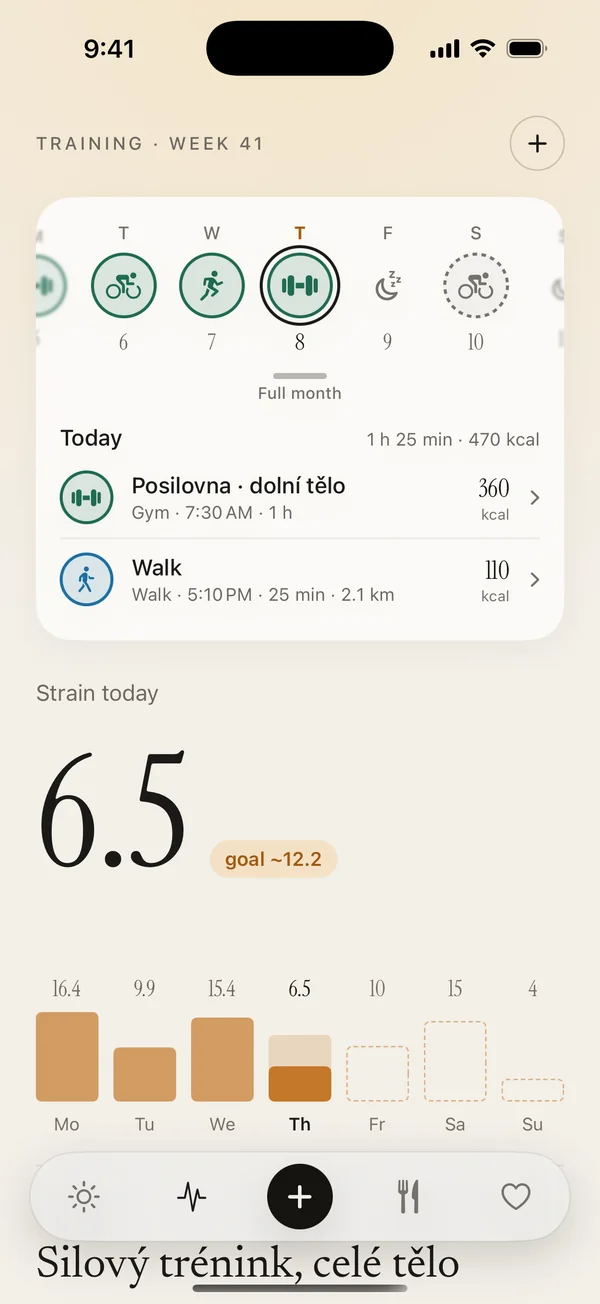
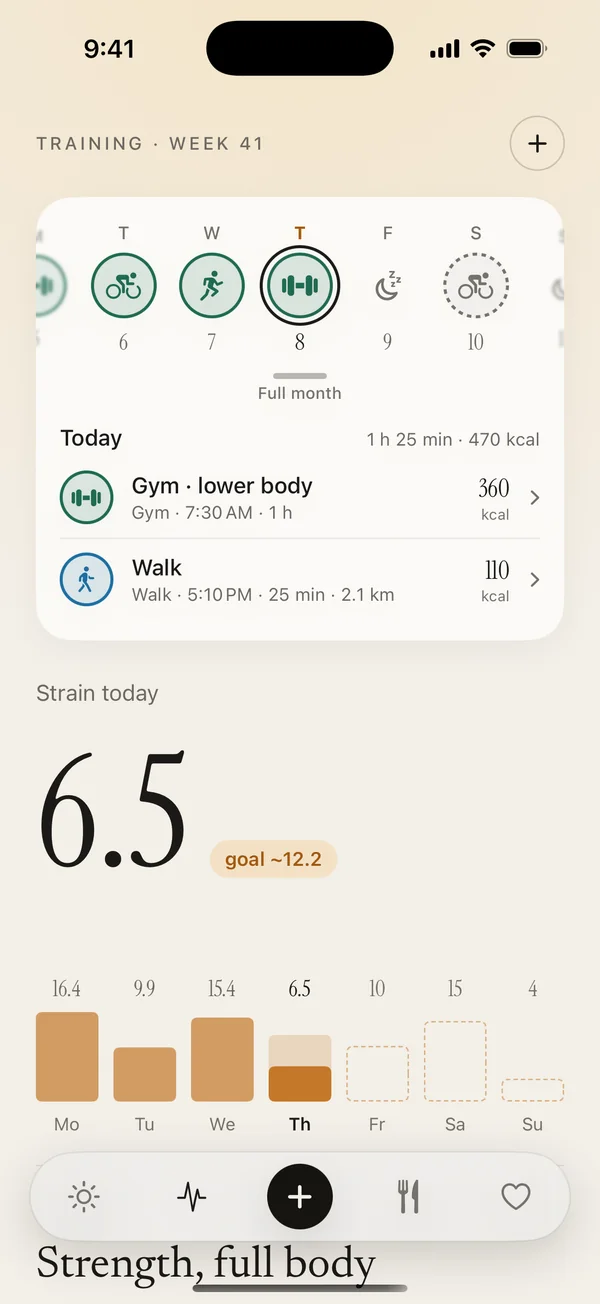
Site: the English screenshots; CI opens detail screens without the system dialog
The phones now show the English sample day from the app build. Readiness,
strain, muscles and the gym session were shot behind the system's
"Open in Aurin?" question that simctl openurl brings, so the app takes
-open <route> at launch instead. The sample Training tab now matches
Today: strain 8.4 and the strength session still ahead at 17:30.

Claude-Session: https://claude.ai/code/session_01FR1qPjRNRxWeNLwhyB6Ncx

Changed region(s): [[0.09, 0.9509, 0.63, 1.0], [0.21, 0.3681, 0.57, 0.3988], [0.66, 0.9509, 0.78, 0.9816]]

diff --git a/ios-native/Loadwise/Data/DemoData.swift b/ios-native/Loadwise/Data/DemoData.swift
@@ -72,7 +72,7 @@ enum DemoData {
     private static let trainingEnglish: TrainingSnapshot = decode(inEnglish(trainingJSON))
 
     private static let trainingJSON = #"""
-{"status": "ok", "date": "2026-10-08", "week": 41, "strain": {"score": 6.5, "target": 12.2, "band": "střední"}, "days": [{"date": "2026-10-05", "strain": 16.4, "planned": 11.6, "today": false}, {"date": "2026-10-06", "strain": 9.9, "planned": 8.7, "today": false}, {"date": "2026-10-07", "strain": 15.4, "planned": 13.1, "today": false}, {"date": "2026-10-08", "strain": 6.5, "planned": 12.2, "today": true}, {"date": "2026-10-09", "strain": null, "planned": 10.2, "today": false}, {"date": "2026-10-10", "strain": null, "planned": 14.8, "today": false}, {"date": "2026-10-11", "strain": null, "planned": 4.2, "today": false}], "next": {"date": "2026-10-08", "time": "17:30", "minutes": 45, "title": "Silový trénink, celé tělo", "sport": "strength", "tss": 45, "strain": 8.3, "exercises": ["Dřep", "Tlak na lavici", "Přítahy", "Rumunský mrtvý tah", "Výpady", "Plank"], "description": null, "advice": "Proč dnes: vysoká připravenost, nohy od pondělí v klidu, v sobotu delší běh."}, "event": {"name": "Pražský půlmaraton", "date": "2026-11-01", "daysLeft": 24, "phase": "build", "phases": [{"key": "base", "label": "Základ", "from": null, "to": "2026-08-08", "state": "done"}, {"key": "build", "label": "Rozvoj", "from": "2026-08-09", "to": "2026-10-24", "state": "now", "week": 9, "weeks": 11}, {"key": "taper", "label": "Ladění", "from": "2026-10-25", "to": "2026-10-31", "state": "next"}]}, "form": {"fitness": 62, "fatigue": 76, "form": -14, "zone": "optimal", "label": "budování", "text": "Únava je nad kondicí, přesně jak má při budování být. Kondice roste.", "series": [{"date": "2026-07-17", "fitness": 53.7, "fatigue": 64.1}, {"date": "2026-07-18", "fitness": 53.8, "fatigue": 62.9}, {"date": "2026-07-19", "fitness": 53.9, "fatigue": 61.5}, {"date": "2026-07-20", "fitness": 54, "fatigue": 59.9}, {"date": "2026-07-21", "fitness": 54.1, "fatigue": 58.3}, {"date": "2026-07-22", "fitness": 54.2, "fatigue": 56.9}, {"date": "2026-07-23", "fitness": 54.3, "fatigue": 55.7}, {"date": "2026-07-24", "fitness": 54.4, "fatigue": 54.9}, {"date": "2026-07-25", "fitness": 54.5, "fatigue": 54.5}, {"date": "2026-07-26", "fitness": 54.6, "fatigue": 54.6}, {"date": "2026-07-27", "fitness": 54.7, "fatigue": 55.2}, {"date": "2026-07-28", "fitness": 54.8, "fatigue": 56.3}, {"date": "2026-07-29", "fitness": 54.9, "fatigue": 57.7}, {"date": "2026-07-30", "fitness": 55, "fatigue": 59.3}, {"date": "2026-07-31", "fitness": 55.1, "fatigue": 61.1}, {"date": "2026-08-01", "fitness": 55.2, "fatigue": 62.9}, {"date": "2026-08-02", "fitness": 55.3, "fatigue": 64.6}, {"date": "2026-08-03", "fitness": 55.4, "fatigue": 65.9}, {"date": "2026-08-04", "fitness": 55.5, "fatigue": 67}, {"date": "2026-08-05", "fitness": 55.6, "fatigue": 67.5}, {"date": "2026-08-06", "fitness": 55.7, "fatigue": 67.6}, {"date": "2026-08-07", "fitness": 55.8, "fatigue": 67.2}, {"date": "2026-08-08", "fitness": 55.9, "fatigue": 66.3}, {"date": "2026-08-09", "fitness": 56, "fatigue": 65.1}, {"date": "2026-08-10", "fitness": 56.1, "fatigue": 63.7}, {"date": "2026-08-11", "fitness": 56.2, "fatigue": 62.1}, {"date": "2026-08-12", "fitness": 56.3, "fatigue": 60.5}, {"date": "2026-08-13", "fitness": 56.4, "fatigue": 59.1}, {"date": "2026-08-14", "fitness": 56.5, "fatigue": 57.9}, {"date": "2026-08-15", "fitness": 56.6, "fatigue": 57.1}, {"date": "2026-08-16", "fitness": 56.7, "fatigue": 56.7}, {"date": "2026-08-17", "fitness": 56.8, "fatigue": 56.8}, {"date": "2026-08-18", "fitness": 56.9, "fatigue": 57.5}, {"date": "2026-08-19", "fitness": 57, "fatigue": 58.5}, {"date": "2026-08-20", "fitness": 57.1, "fatigue": 59.9}, {"date": "2026-08-21", "fitness": 57.2, "fatigue": 61.6}, {"date": "2026-08-22", "fitness": 57.3, "fatigue": 63.4}, {"date": "2026-08-23", "fitness": 57.4, "fatigue": 65.2}, {"date": "2026-08-24", "fitness": 57.5, "fatigue": 66.8}, {"date": "2026-08-25", "fitness": 57.6, "fatigue": 68.2}, {"date": "2026-08-26", "fitness": 57.7, "fatigue": 69.2}, {"date": "2026-08-27", "fitness": 57.8, "fatigue": 69.7}, {"date": "2026-08-28", "fitness": 57.9, "fatigue": 69.8}, {"date": "2026-08-29", "fitness": 58, "fatigue": 69.4}, {"date": "2026-08-30", "fitness": 58.1, "fatigue": 68.5}, {"date": "2026-08-31", "fitness": 58.2, "fatigue": 67.3}, {"date": "2026-09-01", "fitness": 58.3, "fatigue": 65.9}, {"date": "2026-09-02", "fitness": 58.4, "fatigue": 64.3}, {"date": "2026-09-03", "fitness": 58.5, "fatigue": 62.7}, {"date": "2026-09-04", "fitness": 58.6, "fatigue": 61.3}, {"date": "2026-09-05", "fitness": 58.7, "fatigue": 60.1}, {"date": "2026-09-06", "fitness": 58.8, "fatigue": 59.3}, {"date": "2026-09-07", "fitness": 58.9, "fatigue": 58.9}, {"date": "2026-09-08", "fitness": 59, "fatigue": 59.1}, {"date": "2026-09-09", "fitness": 59.1, "fatigue": 59.7}, {"date": "2026-09-10", "fitness": 59.2, "fatigue": 60.7}, {"date": "2026-09-11", "fitness": 59.3, "fatigue": 62.1}, {"date": "2026-09-12", "fitness": 59.4, "fatigue": 63.8}, {"date": "2026-09-13", "fitness": 59.5, "fatigue": 65.6}, {"date": "2026-09-14", "fitness": 59.6, "fatigue": 67.4}, {"date": "2026-09-15", "fitness": 59.7, "fatigue": 69}, {"date": "2026-09-16", "fitness": 59.8, "fatigue": 70.4}, {"date": "2026-09-17", "fitness": 59.9, "fatigue": 71.4}, {"date": "2026-09-18", "fitness": 60, "fatigue": 71.9}, {"date": "2026-09-19", "fitness": 60.1, "fatigue": 72}, {"date": "2026-09-20", "fitness": 60.2, "fatigue": 71.6}, {"date": "2026-09-21", "fitness": 60.3, "fatigue": 70.8}, {"date": "2026-09-22", "fitness": 60.4, "fatigue": 69.5}, {"date": "2026-09-23", "fitness": 60.5, "fatigue": 68.1}, {"date": "2026-09-24", "fitness": 60.6, "fatigue": 66.5}, {"date": "2026-09-25", "fitness": 60.7, "fatigue": 64.9}, {"date": "2026-09-26", "fitness": 60.8, "fatigue": 63.5}, {"date": "2026-09-27", "fitness": 60.9, "fatigue": 62.3}, {"date": "2026-09-28", "fitness": 61, "fatigue": 61.5}, {"date": "2026-09-29", "fitness": 61.1, "fatigue": 61.1}, {"date": "2026-09-30", "fitness": 61.2, "fatigue": 64.3}, {"date": "2026-10-01", "fitness": 61.3, "fatigue": 64.9}, {"date": "2026-10-02", "fitness": 61.4, "fatigue": 65.9}, {"date": "2026-10-03", "fitness": 61.5, "fatigue": 67.4}, {"date": "2026-10-04", "fitness": 61.6, "fatigue": 69}, {"date": "2026-10-05", "fitness": 61.7, "fatigue": 70.8}, {"date": "2026-10-06", "fitness": 61.8, "fatigue": 72.6}, {"date": "2026-10-07", "fitness": 61.9, "fatigue": 74.2}, {"date": "2026-10-08", "fitness": 62, "fatigue": 75.6}]}, "load": {"weeks": [{"start": "2026-08-17", "week": 34, "load": 467, "planned": null}, {"start": "2026-08-24", "week": 35, "load": 473, "planned": null}, {"start": "2026-08-31", "week": 36, "load": 479, "planned": null}, {"start": "2026-09-07", "week": 37, "load": 486, "planned": null}, {"start": "2026-09-14", "week": 38, "load": 492, "planned": null}, {"start": "2026-09-21", "week": 39, "load": 498, "planned": null}, {"start": "2026-09-28", "week": 40, "load": 505, "planned": null}, {"start": "2026-10-05", "week": 41, "load": 280, "planned": 443}], "intensity": {"low": 66, "high": 27, "anaerobic": 7, "weeks": [{"low": 100, "high": 40, "anaerobic": 5}, {"low": 120, "high": 30, "anaerobic": 10}, {"low": 90, "high": 50, "anaerobic": 8}, {"low": 60, "high": 20, "anaerobic": 5}]}}, "zones": {"light": 816, "moderate": 350, "vigorous": 125, "peak": 7, "minutes": 1298, "weeks": [{"start": "2026-09-14", "week": 38, "light": 228, "moderate": 96, "vigorous": 38, "peak": 2}, {"start": "2026-09-21", "week": 39, "light": 214, "moderate": 104, "vigorous": 30, "peak": 3}, {"start": "2026-09-28", "week": 40, "light": 205, "moderate": 88, "vigorous": 41, "peak": 1}, {"start": "2026-10-05", "week": 41, "light": 132, "moderate": 62, "vigorous": 16, "peak": 1}]}, "vo2max": {"value": 49.2, "change": 0.6, "series": [{"date": "2026-04-11", "value": 45.8}, {"date": "2026-04-18", "value": 46.1}, {"date": "2026-04-25", "value": 46.4}, {"date": "2026-05-02", "value": 46.2}, {"date": "2026-05-09", "value": 46.5}, {"date": "2026-05-16", "value": 46.8}, {"date": "2026-05-23", "value": 46.5}, {"date": "2026-05-30", "value": 46.8}, {"date": "2026-06-06", "value": 47.2}, {"date": "2026-06-13", "value": 46.9}, {"date": "2026-06-20", "value": 47.2}, {"date": "2026-06-27", "value": 47.5}, {"date": "2026-07-04", "value": 47.2}, {"date": "2026-07-11", "value": 47.6}, {"date": "2026-07-18", "value": 47.9}, {"date": "2026-07-25", "value": 47.6}, {"date": "2026-08-01", "value": 47.9}, {"date": "2026-08-08", "value": 48.2}, {"date": "2026-08-15", "value": 48}, {"date": "2026-08-22", "value": 48.3}, {"date": "2026-08-29", "value": 48.6}, {"date": "2026-09-05", "value": 48.3}, {"date": "2026-09-08", "value": 48.6}, {"date": "2026-09-13", "value": 48.7}, {"date": "2026-09-18", "value": 48.8}, {"date": "2026-09-23", "value": 48.9}, {"date": "2026-09-28", "value": 49}, {"date": "2026-10-03", "value": 49.1}, {"date": "2026-10-08", "value": 49.2}]}, "activeCalories": {"today": 520, "usual": 432, "week": [{"date": "2026-10-02", "value": 310}, {"date": "2026-10-04", "value": 480}, {"date": "2026-10-05", "value": 390}, {"date": "2026-10-06", "value": 700}, {"date": "2026-10-07", "value": 280}, {"date": "2026-10-08", "value": 520}], "days": [{"date": "2026-09-11", "value": 420}, {"date": "2026-09-12", "value": 610}, {"date": "2026-09-13", "value": 350}, {"date": "2026-09-14", "value": 290}, {"date": "2026-09-15", "value": 540}, {"date": "2026-09-16", "value": 380}, {"date": "2026-09-17", "value": 450}, {"date": "2026-09-18", "value": 330}, {"date": "2026-09-19", "value": 720}, {"date": "2026-09-20", "value": 260}, {"date": "2026-09-21", "value": 410}, {"date": "2026-09-22", "value": 500}, {"date": "2026-09-23", "value": 390}, {"date": "2026-09-24", "value": 640}, {"date": "2026-09-25", "value": 300}, {"date": "2026-09-26", "value": 470}, {"date": "2026-09-27", "value": 360}, {"date": "2026-09-28", "value": 520}, {"date": "2026-09-29", "value": 680}, {"date": "2026-09-30", "value": 290}, {"date": "2026-10-01", "value": 410}, {"date": "2026-10-02", "value": 310}, {"date": "2026-10-04", "value": 480}, {"date": "2026-10-05", "value": 390}, {"date": "2026-10-06", "value": 700}, {"date": "2026-10-07", "value": 280}, {"date": "2026-10-08", "value": 520}]}, "sessions": [{"id": "done:2026-10-05:", "kind": "activity", "status": "done", "date": "2026-10-05", "time": null, "title": "Run", "sport": "run", "minutes": 54, "tss": 72, "activityId": null, "eventId": null}, {"id": "done:2026-10-06:", "kind": "activity", "status": "done", "date": "2026-10-06", "time": null, "title": "Ride", "sport": "ride", "minutes": 60, "tss": 48, "activityId": null, "eventId": null}, {"id": "activity:i9001", "kind": "activity", "status": "done", "date": "2026-10-07", "time": "18:00", "title": "Intervaly 4×8", "sport": "ride", "minutes": 72, "tss": 88, "activityId": "i9001", "eventId": null, "adherence": "off", "adherenceReason": "vyšší intenzita než plán"}, {"id": "planned:2026-10-08:Silový trénink, celé tělo", "kind": "planned", "status": "planned", "date": "2026-10-08", "time": "17:30", "title": "Silový trénink, celé tělo", "sport": "strength", "minutes": 45, "tss": 45, "activityId": null, "eventId": null}, {"id": "planned:42", "kind": "planned", "status": "planned", "date": "2026-10-09", "time": null, "title": "Lehká jízda Z2", "sport": "ride", "minutes": 72, "tss": 60, "activityId": null, "eventId": "planned:42"}, {"id": "planned:43", "kind": "planned", "status": "planned", "date": "2026-10-10", "time": null, "title": "Dlouhý běh", "sport": "run", "minutes": 96, "tss": 110, "activityId": null, "eventId": "planned:43"}, {"id": "planned:2026-10-11:Regenerace", "kind": "planned", "status": "planned", "date": "2026-10-11", "time": null, "title": "Regenerace", "sport": "ride", "minutes": 30, "tss": 20, "activityId": null, "eventId": null}], "thisWeek": {"done": 3, "planned": 7, "doneLoad": 208, "plannedLoad": 443}}
+{"status": "ok", "date": "2026-10-08", "week": 41, "strain": {"score": 8.4, "target": 12.2, "band": "střední"}, "days": [{"date": "2026-10-05", "strain": 16.4, "planned": 11.6, "today": false}, {"date": "2026-10-06", "strain": 9.9, "planned": 8.7, "today": false}, {"date": "2026-10-07", "strain": 15.4, "planned": 13.1, "today": false}, {"date": "2026-10-08", "strain": 8.4, "planned": 12.2, "today": true}, {"date": "2026-10-09", "strain": null, "planned": 10.2, "today": false}, {"date": "2026-10-10", "strain": null, "planned": 14.8, "today": false}, {"date": "2026-10-11", "strain": null, "planned": 4.2, "today": false}], "next": {"date": "2026-10-08", "time": "17:30", "minutes": 45, "title": "Silový trénink, celé tělo", "sport": "strength", "tss": 45, "strain": 8.3, "exercises": ["Dřep", "Tlak na lavici", "Přítahy", "Rumunský mrtvý tah", "Výpady", "Plank"], "description": null, "advice": "Proč dnes: vysoká připravenost, nohy od pondělí v klidu, v sobotu delší běh."}, "event": {"name": "Pražský půlmaraton", "date": "2026-11-01", "daysLeft": 24, "phase": "build", "phases": [{"key": "base", "label": "Základ", "from": null, "to": "2026-08-08", "state": "done"}, {"key": "build", "label": "Rozvoj", "from": "2026-08-09", "to": "2026-10-24", "state": "now", "week": 9, "weeks": 11}, {"key": "taper", "label": "Ladění", "from": "2026-10-25", "to": "2026-10-31", "state": "next"}]}, "form": {"fitness": 62, "fatigue": 76, "form": -14, "zone": "optimal", "label": "budování", "text": "Únava je nad kondicí, přesně jak má při budování být. Kondice roste.", "series": [{"date": "2026-07-17", "fitness": 53.7, "fatigue": 64.1}, {"date": "2026-07-18", "fitness": 53.8, "fatigue": 62.9}, {"date": "2026-07-19", "fitness": 53.9, "fatigue": 61.5}, {"date": "2026-07-20", "fitness": 54, "fatigue": 59.9}, {"date": "2026-07-21", "fitness": 54.1, "fatigue": 58.3}, {"date": "2026-07-22", "fitness": 54.2, "fatigue": 56.9}, {"date": "2026-07-23", "fitness": 54.3, "fatigue": 55.7}, {"date": "2026-07-24", "fitness": 54.4, "fatigue": 54.9}, {"date": "2026-07-25", "fitness": 54.5, "fatigue": 54.5}, {"date": "2026-07-26", "fitness": 54.6, "fatigue": 54.6}, {"date": "2026-07-27", "fitness": 54.7, "fatigue": 55.2}, {"date": "2026-07-28", "fitness": 54.8, "fatigue": 56.3}, {"date": "2026-07-29", "fitness": 54.9, "fatigue": 57.7}, {"date": "2026-07-30", "fitness": 55, "fatigue": 59.3}, {"date": "2026-07-31", "fitness": 55.1, "fatigue": 61.1}, {"date": "2026-08-01", "fitness": 55.2, "fatigue": 62.9}, {"date": "2026-08-02", "fitness": 55.3, "fatigue": 64.6}, {"date": "2026-08-03", "fitness": 55.4, "fatigue": 65.9}, {"date": "2026-08-04", "fitness": 55.5, "fatigue": 67}, {"date": "2026-08-05", "fitness": 55.6, "fatigue": 67.5}, {"date": "2026-08-06", "fitness": 55.7, "fatigue": 67.6}, {"date": "2026-08-07", "fitness": 55.8, "fatigue": 67.2}, {"date": "2026-08-08", "fitness": 55.9, "fatigue": 66.3}, {"date": "2026-08-09", "fitness": 56, "fatigue": 65.1}, {"date": "2026-08-10", "fitness": 56.1, "fatigue": 63.7}, {"date": "2026-08-11", "fitness": 56.2, "fatigue": 62.1}, {"date": "2026-08-12", "fitness": 56.3, "fatigue": 60.5}, {"date": "2026-08-13", "fitness": 56.4, "fatigue": 59.1}, {"date": "2026-08-14", "fitness": 56.5, "fatigue": 57.9}, {"date": "2026-08-15", "fitness": 56.6, "fatigue": 57.1}, {"date": "2026-08-16", "fitness": 56.7, "fatigue": 56.7}, {"date": "2026-08-17", "fitness": 56.8, "fatigue": 56.8}, {"date": "2026-08-18", "fitness": 56.9, "fatigue": 57.5}, {"date": "2026-08-19", "fitness": 57, "fatigue": 58.5}, {"date": "2026-08-20", "fitness": 57.1, "fatigue": 59.9}, {"date": "2026-08-21", "fitness": 57.2, "fatigue": 61.6}, {"date": "2026-08-22", "fitness": 57.3, "fatigue": 63.4}, {"date": "2026-08-23", "fitness": 57.4, "fatigue": 65.2}, {"date": "2026-08-24", "fitness": 57.5, "fatigue": 66.8}, {"date": "2026-08-25", "fitness": 57.6, "fatigue": 68.2}, {"date": "2026-08-26", "fitness": 57.7, "fatigue": 69.2}, {"date": "2026-08-27", "fitness": 57.8, "fatigue": 69.7}, {"date": "2026-08-28", "fitness": 57.9, "fatigue": 69.8}, {"date": "2026-08-29", "fitness": 58, "fatigue": 69.4}, {"date": "2026-08-30", "fitness": 58.1, "fatigue": 68.5}, {"date": "2026-08-31", "fitness": 58.2, "fatigue": 67.3}, {"date": "2026-09-01", "fitness": 58.3, "fatigue": 65.9}, {"date": "2026-09-02", "fitness": 58.4, "fatigue": 64.3}, {"date": "2026-09-03", "fitness": 58.5, "fatigue": 62.7}, {"date": "2026-09-04", "fitness": 58.6, "fatigue": 61.3}, {"date": "2026-09-05", "fitness": 58.7, "fatigue": 60.1}, {"date": "2026-09-06", "fitness": 58.8, "fatigue": 59.3}, {"date": "2026-09-07", "fitness": 58.9, "fatigue": 58.9}, {"date": "2026-09-08", "fitness": 59, "fatigue": 59.1}, {"date": "2026-09-09", "fitness": 59.1, "fatigue": 59.7}, {"date": "2026-09-10", "fitness": 59.2, "fatigue": 60.7}, {"date": "2026-09-11", "fitness": 59.3, "fatigue": 62.1}, {"date": "2026-09-12", "fitness": 59.4, "fatigue": 63.8}, {"date": "2026-09-13", "fitness": 59.5, "fatigue": 65.6}, {"date": "2026-09-14", "fitness": 59.6, "fatigue": 67.4}, {"date": "2026-09-15", "fitness": 59.7, "fatigue": 69}, {"date": "2026-09-16", "fitness": 59.8, "fatigue": 70.4}, {"date": "2026-09-17", "fitness": 59.9, "fatigue": 71.4}, {"date": "2026-09-18", "fitness": 60, "fatigue": 71.9}, {"date": "2026-09-19", "fitness": 60.1, "fatigue": 72}, {"date": "2026-09-20", "fitness": 60.2, "fatigue": 71.6}, {"date": "2026-09-21", "fitness": 60.3, "fatigue": 70.8}, {"date": "2026-09-22", "fitness": 60.4, "fatigue": 69.5}, {"date": "2026-09-23", "fitness": 60.5, "fatigue": 68.1}, {"date": "2026-09-24", "fitness": 60.6, "fatigue": 66.5}, {"date": "2026-09-25", "fitness": 60.7, "fatigue": 64.9}, {"date": "2026-09-26", "fitness": 60.8, "fatigue": 63.5}, {"date": "2026-09-27", "fitness": 60.9, "fatigue": 62.3}, {"date": "2026-09-28", "fitness": 61, "fatigue": 61.5}, {"date": "2026-09-29", "fitness": 61.1, "fatigue": 61.1}, {"date": "2026-09-30", "fitness": 61.2, "fatigue": 64.3}, {"date": "2026-10-01", "fitness": 61.3, "fatigue": 64.9}, {"date": "2026-10-02", "fitness": 61.4, "fatigue": 65.9}, {"date": "2026-10-03", "fitness": 61.5, "fatigue": 67.4}, {"date": "2026-10-04", "fitness": 61.6, "fatigue": 69}, {"date": "2026-10-05", "fitness": 61.7, "fatigue": 70.8}, {"date": "2026-10-06", "fitness": 61.8, "fatigue": 72.6}, {"date": "2026-10-07", "fitness": 61.9, "fatigue": 74.2}, {"date": "2026-10-08", "fitness": 62, "fatigue": 75.6}]}, "load": {"weeks": [{"start": "2026-08-17", "week": 34, "load": 467, "planned": null}, {"start": "2026-08-24", "week": 35, "load": 473, "planned": null}, {"start": "2026-08-31", "week": 36, "load": 479, "planned": null}, {"start": "2026-09-07", "week": 37, "load": 486, "planned": null}, {"start": "2026-09-14", "week": 38, "load": 492, "planned": null}, {"start": "2026-09-21", "week": 39, "load": 498, "planned": null}, {"start": "2026-09-28", "week": 40, "load": 505, "planned": null}, {"start": "2026-10-05", "week": 41, "load": 280, "planned": 443}], "intensity": {"low": 66, "high": 27, "anaerobic": 7, "weeks": [{"low": 100, "high": 40, "anaerobic": 5}, {"low": 120, "high": 30, "anaerobic": 10}, {"low": 90, "high": 50, "anaerobic": 8}, {"low": 60, "high": 20, "anaerobic": 5}]}}, "zones": {"light": 816, "moderate": 350, "vigorous": 125, "peak": 7, "minutes": 1298, "weeks": [{"start": "2026-09-14", "week": 38, "light": 228, "moderate": 96, "vigorous": 38, "peak": 2}, {"start": "2026-09-21", "week": 39, "light": 214, "moderate": 104, "vigorous": 30, "peak": 3}, {"start": "2026-09-28", "week": 40, "light": 205, "moderate": 88, "vigorous": 41, "peak": 1}, {"start": "2026-10-05", "week": 41, "light": 132, "moderate": 62, "vigorous": 16, "peak": 1}]}, "vo2max": {"value": 49.2, "change": 0.6, "series": [{"date": "2026-04-11", "value": 45.8}, {"date": "2026-04-18", "value": 46.1}, {"date": "2026-04-25", "value": 46.4}, {"date": "2026-05-02", "value": 46.2}, {"date": "2026-05-09", "value": 46.5}, {"date": "2026-05-16", "value": 46.8}, {"date": "2026-05-23", "value": 46.5}, {"date": "2026-05-30", "value": 46.8}, {"date": "2026-06-06", "value": 47.2}, {"date": "2026-06-13", "value": 46.9}, {"date": "2026-06-20", "value": 47.2}, {"date": "2026-06-27", "value": 47.5}, {"date": "2026-07-04", "value": 47.2}, {"date": "2026-07-11", "value": 47.6}, {"date": "2026-07-18", "value": 47.9}, {"date": "2026-07-25", "value": 47.6}, {"date": "2026-08-01", "value": 47.9}, {"date": "2026-08-08", "value": 48.2}, {"date": "2026-08-15", "value": 48}, {"date": "2026-08-22", "value": 48.3}, {"date": "2026-08-29", "value": 48.6}, {"date": "2026-09-05", "value": 48.3}, {"date": "2026-09-08", "value": 48.6}, {"date": "2026-09-13", "value": 48.7}, {"date": "2026-09-18", "value": 48.8}, {"date": "2026-09-23", "value": 48.9}, {"date": "2026-09-28", "value": 49}, {"date": "2026-10-03", "value": 49.1}, {"date": "2026-10-08", "value": 49.2}]}, "activeCalories": {"today": 520, "usual": 432, "week": [{"date": "2026-10-02", "value": 310}, {"date": "2026-10-04", "value": 480}, {"date": "2026-10-05", "value": 390}, {"date": "2026-10-06", "value": 700}, {"date": "2026-10-07", "value": 280}, {"date": "2026-10-08", "value": 520}], "days": [{"date": "2026-09-11", "value": 420}, {"date": "2026-09-12", "value": 610}, {"date": "2026-09-13", "value": 350}, {"date": "2026-09-14", "value": 290}, {"date": "2026-09-15", "value": 540}, {"date": "2026-09-16", "value": 380}, {"date": "2026-09-17", "value": 450}, {"date": "2026-09-18", "value": 330}, {"date": "2026-09-19", "value": 720}, {"date": "2026-09-20", "value": 260}, {"date": "2026-09-21", "value": 410}, {"date": "2026-09-22", "value": 500}, {"date": "2026-09-23", "value": 390}, {"date": "2026-09-24", "value": 640}, {"date": "2026-09-25", "value": 300}, {"date": "2026-09-26", "value": 470}, {"date": "2026-09-27", "value": 360}, {"date": "2026-09-28", "value": 520}, {"date": "2026-09-29", "value": 680}, {"date": "2026-09-30", "value": 290}, {"date": "2026-10-01", "value": 410}, {"date": "2026-10-02", "value": 310}, {"date": "2026-10-04", "value": 480}, {"date": "2026-10-05", "value": 390}, {"date": "2026-10-06", "value": 700}, {"date": "2026-10-07", "value": 280}, {"date": "2026-10-08", "value": 520}]}, "sessions": [{"id": "done:2026-10-05:", "kind": "activity", "status": "done", "date": "2026-10-05", "time": null, "title": "Run", "sport": "run", "minutes": 54, "tss": 72, "activityId": null, "eventId": null}, {"id": "done:2026-10-06:", "kind": "activity", "status": "done", "date": "2026-10-06", "time": null, "title": "Ride", "sport": "ride", "minutes": 60, "tss": 48, "activityId": null, "eventId": null}, {"id": "activity:i9001", "kind": "activity", "status": "done", "date": "2026-10-07", "time": "18:00", "title": "Intervaly 4×8", "sport": "ride", "minutes": 72, "tss": 88, "activityId": "i9001", "eventId": null, "adherence": "off", "adherenceReason": "vyšší intenzita než plán"}, {"id": "planned:2026-10-08:Silový trénink, celé tělo", "kind": "planned", "status": "planned", "date": "2026-10-08", "time": "17:30", "title": "Silový trénink, celé tělo", "sport": "strength", "minutes": 45, "tss": 45, "activityId": null, "eventId": null}, {"id": "planned:42", "kind": "planned", "status": "planned", "date": "2026-10-09", "time": null, "title": "Lehká jízda Z2", "sport": "ride", "minutes": 72, "tss": 60, "activityId": null, "eventId": "planned:42"}, {"id": "planned:43", "kind": "planned", "status": "planned", "date": "2026-10-10", "time": null, "title": "Dlouhý běh", "sport": "run", "minutes": 96, "tss": 110, "activityId": null, "eventId": "planned:43"}, {"id": "planned:2026-10-11:Regenerace", "kind": "planned", "status": "planned", "date": "2026-10-11", "time": null, "title": "Regenerace", "sport": "ride", "minutes": 30, "tss": 20, "activityId": null, "eventId": null}], "thisWeek": {"done": 3, "planned": 7, "doneLoad": 208, "plannedLoad": 443}}
 """#
 
     private static let json = """

diff --git a/ios-native/Loadwise/Data/DemoCalendar.swift b/ios-native/Loadwise/Data/DemoCalendar.swift
@@ -18,17 +18,21 @@ extension DemoData {
             [("walk", "Procházka", 70, 5.8, 290)]
         ]
         return ISODay.range(ISODay.shift(today, -42), ISODay.shift(today, 14)).map { (date: String) -> CalendarDay in
-            let done = date <= today
             // Every fifth week a lighter one; a few days off now and then.
             let skip = (Int(date.suffix(2)) ?? 0) % 11 == 0
-            let items = skip ? [] : week[ISODay.weekdayIndex(date)]
+            // The sample day itself: the morning walk done, the strength session of
+            // Today's plan (DemoData.training.next) still ahead at 17:30.
+            let items: [(String, String, Double, Double?, Double)] = date == today ? [("walk", "Chůze", 25, 2.1, 110), ("strength", "Silový trénink, celé tělo", 45, nil, 0)]
+                : skip ? [] : week[ISODay.weekdayIndex(date)]
             // Now and then a session done differently from the plan.
             let differently = (Int(date.suffix(2)) ?? 0) % 9 == 4
             let list: [CalendarActivity] = items.enumerated().compactMap { i, item -> CalendarActivity? in
+                let done = date < today || (date == today && item.0 == "walk")
                 if !done && item.0 == "walk" { return nil }
                 let adherence: String? = !done ? nil : item.0 == "walk" ? "offplan" : differently ? "off" : "good"
+                let time = date == today && !done ? "17:30" : i == 0 ? "07:30" : "17:10"
                 return CalendarActivity(id: date + "-\(i)", sport: item.0, status: done ? "done" : "planned", title: english ? Self.english[item.1] ?? item.1 : item.1, date: date,
-                                        time: i == 0 ? "07:30" : "17:10", minutes: item.2, km: item.3, kcal: done ? item.4 : nil,
+                                        time: time, minutes: item.2, km: item.3, kcal: done ? item.4 : nil,
                                         activityId: nil, eventId: nil, adherence: adherence)
             }
             let real = list.filter { $0.status == "done" }

diff --git a/ios-native/Loadwise/App/AppModel.swift b/ios-native/Loadwise/App/AppModel.swift
@@ -140,6 +140,12 @@ final class AppModel {
         if let i = args.firstIndex(of: "-tab"), i + 1 < args.count {
             tab = ["training": AppTab.training, "food": .food, "health": .health][args[i + 1]] ?? .today
         }
+        // "-open readiness" (the website's screenshots) opens a detail as its link
+        // would, without the system's "Open in Aurin?" question that simctl openurl brings.
+        if let i = args.firstIndex(of: "-open"), i + 1 < args.count,
+           let url = URL(string: "loadwise://open/\(args[i + 1])") {
+            handle(url)
+        }
         // The network back: what waited goes out and the screens load again.
         if !demo {
             network = NetworkWatch { [weak self] in await self?.networkBack() }
